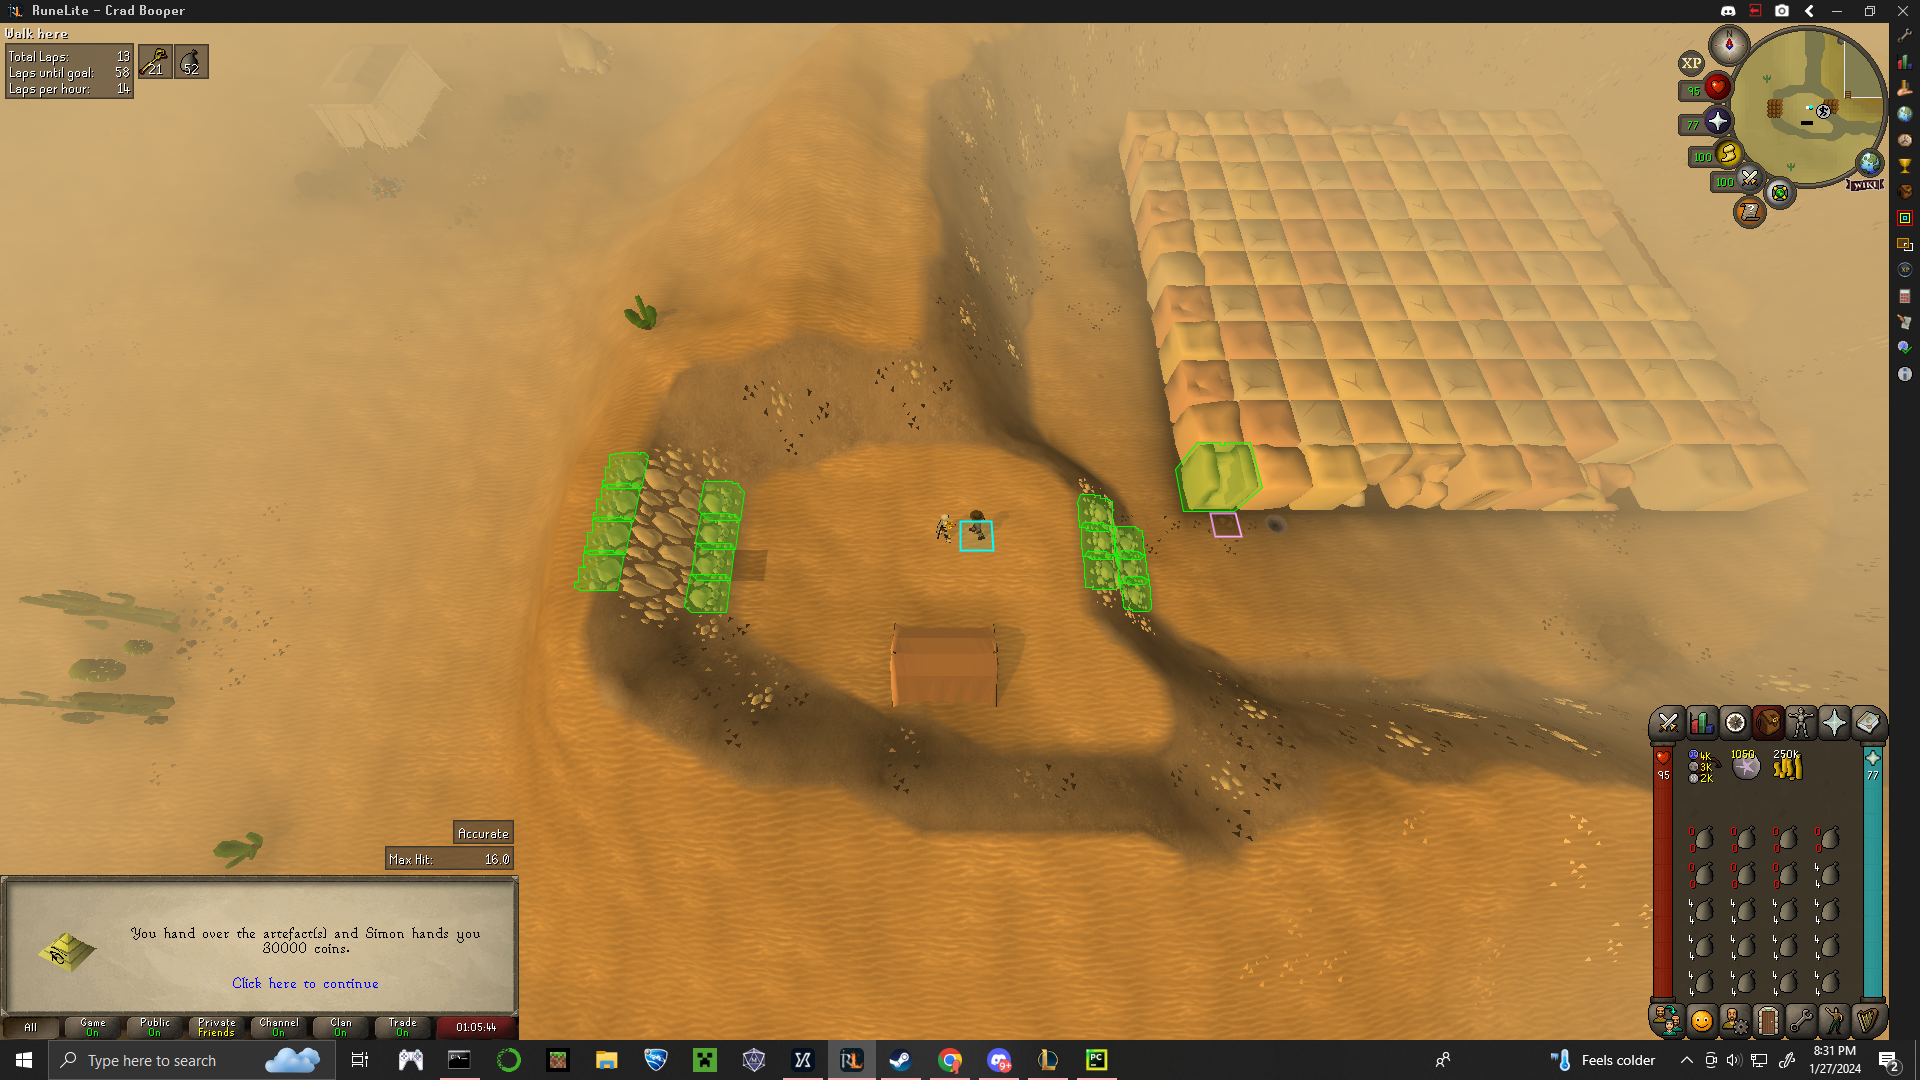
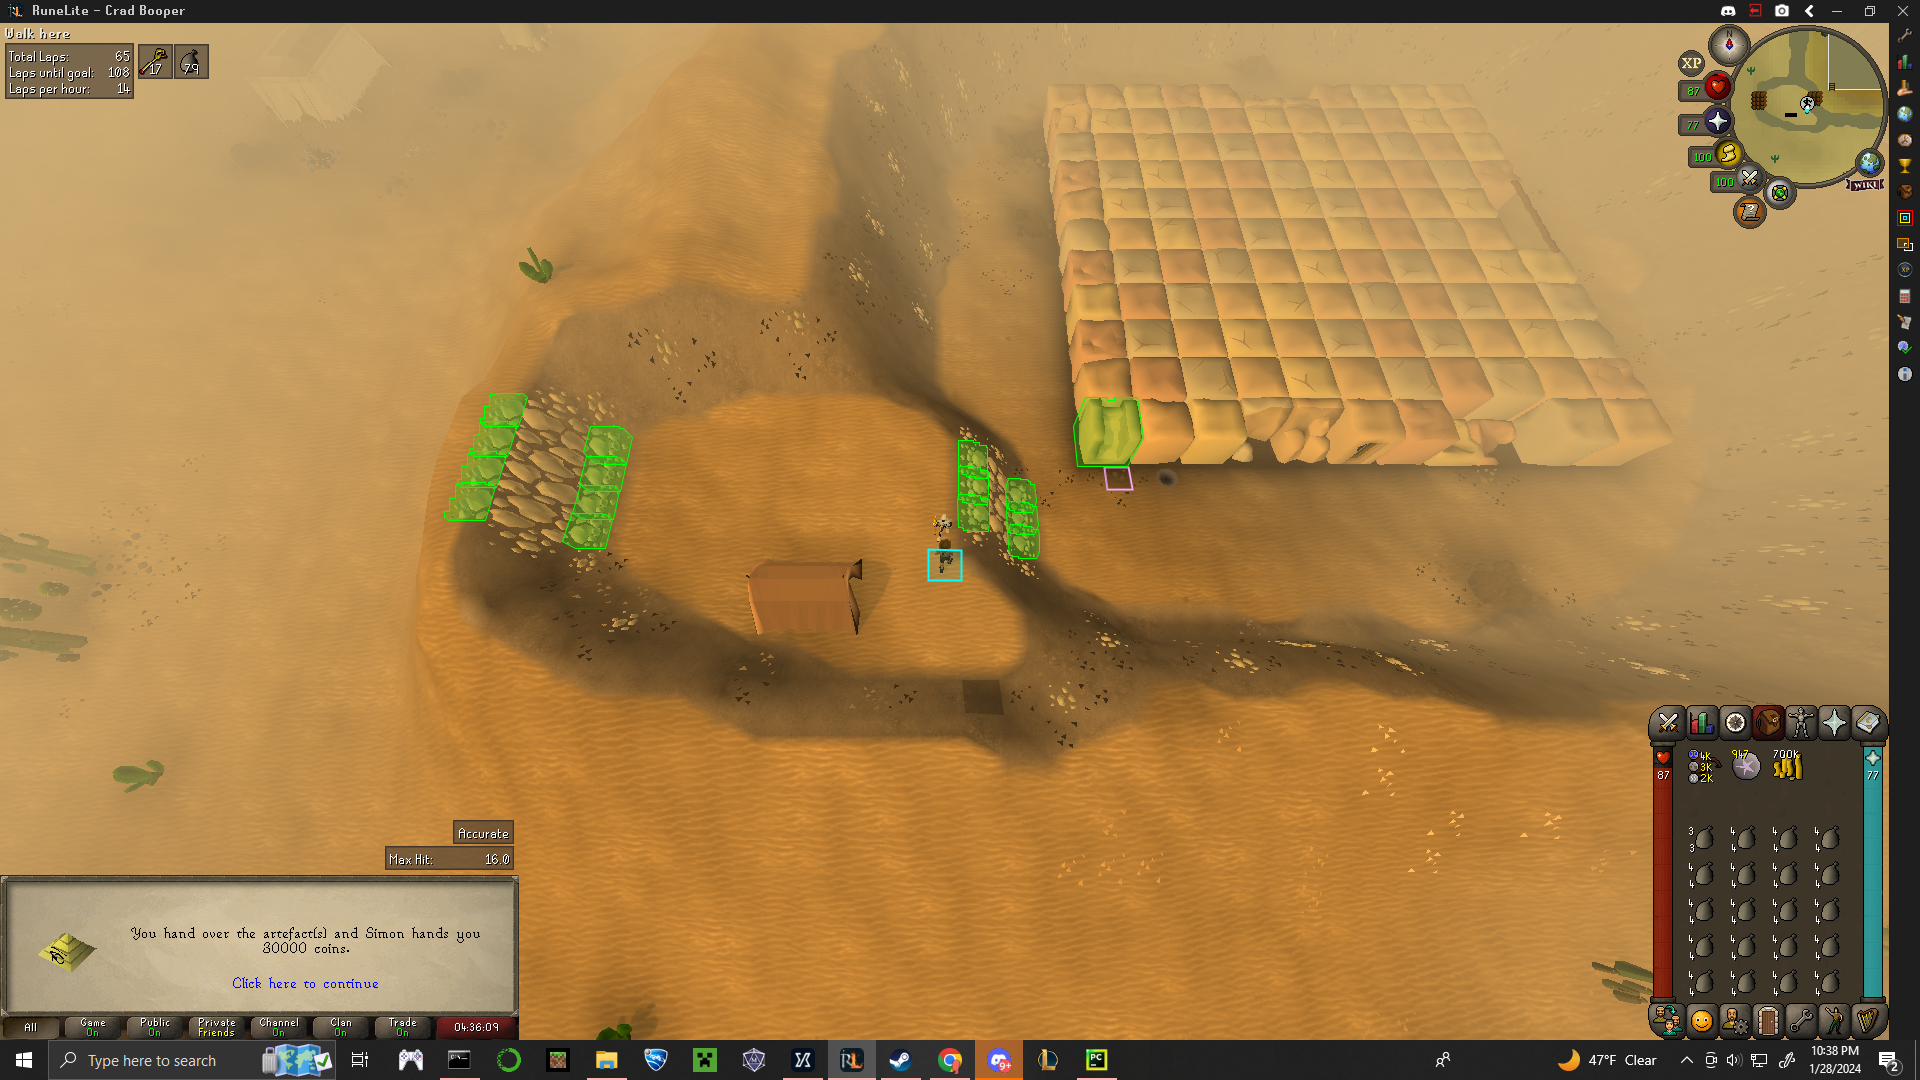
updated script to refill water, and loop is done

diff --git a/opencv/opencv_testing.py b/opencv/opencv_testing.py
@@ -11,6 +11,7 @@ from randomizers import p, r
 
 
 def locate_simon():
+    timer = time.time()
     pag.screenshot('s1.png', region=(550, 370, 500, 500))
     simon_area = cv.imread('s1.png', cv.IMREAD_UNCHANGED)
     simon = cv.imread('../agility_pyramid/simon_templeton.png', cv.IMREAD_UNCHANGED)
@@ -22,6 +23,7 @@ def locate_simon():
 
     simon_location = (max_loc[0] + 550 + simon_w, max_loc[1] + 370 + simon_h)
     # print(simon_location)
+    print(time.time() - timer)
     return simon_location
 
 
@@ -58,8 +60,8 @@ def trade_with_simon():
 
 def locate_start():
     pag.screenshot('s2.png', region=(0, 0, 1920, 1080))
-    start_area = cv.imread('../agility_pyramid/s2.png', cv.IMREAD_UNCHANGED)
-    start_tile = cv.imread('../agility_pyramid/start_tile.png', cv.IMREAD_UNCHANGED)
+    start_area = cv.imread('s2.png', cv.IMREAD_UNCHANGED)
+    start_tile = cv.imread('start_tile.png', cv.IMREAD_UNCHANGED)
     result = cv.matchTemplate(start_area, start_tile, cv.TM_CCOEFF_NORMED)
     min_val, max_val, min_loc, max_loc = cv.minMaxLoc(result)
     estimated_start_loc = (max_loc[0], max_loc[1] - 20)
@@ -68,6 +70,7 @@ def locate_start():
 
 def reset_position():
     pag.moveTo(locate_start())
+    time.sleep(0.25)
     pag.click()
     time.sleep(5)
     pag.moveTo(974 + p(-4, 4), 536 + p(-4, 4), r(0.25, 0.75))
@@ -77,5 +80,6 @@ def reset_position():
     pag.click()
 
 
-trade_with_simon()
-reset_position()
+# locate_simon()
+# trade_with_simon()
+# reset_position()

diff --git a/agility_pyramid/agility_pyramid.py b/agility_pyramid/agility_pyramid.py
@@ -118,7 +118,8 @@ def check_position(x, y, rgb, t=5):
 
 
 def locate_simon():
-    pag.screenshot('s1.png', region=(550, 370, 500, 500))
+    timer = time.time()
+    pag.screenshot('s1.png', region=(640, 470, 400, 330))
     simon_area = cv.imread('s1.png', cv.IMREAD_UNCHANGED)
     simon = cv.imread('simon_templeton.png', cv.IMREAD_UNCHANGED)
     result = cv.matchTemplate(simon_area, simon, cv.TM_CCOEFF_NORMED)
@@ -127,8 +128,9 @@ def locate_simon():
     simon_w = simon.shape[1] / 2
     simon_h = simon.shape[0] / 2
 
-    simon_location = (max_loc[0] + 550 + simon_w, max_loc[1] + 370 + simon_h)
+    simon_location = (max_loc[0] + 640 + simon_w, max_loc[1] + 470 + simon_h)
     # print(simon_location)
+    print(time.time() - timer)
     return simon_location
 
 
@@ -188,7 +190,7 @@ def reset_position():
 def main():
     countdown(3)
     initialize_pag()
-    for n in range(1, 13):
+    for n in range(1, 31):
         play_actions('agility_pyramid_pt1.json')
         time.sleep(4)
         wait_for('pyramid_block_1.png', c=0.98)
@@ -212,8 +214,15 @@ def main():
         if n % 3 == 0:
             trade_with_simon()
             reset_position()
+        if n % 25 == 0:
+            play_actions('fill_water.json')
+            time.sleep(5)
 
 
-main()
+# main()
+
 # trade_with_simon()
 # reset_position()
+
+play_actions('fill_water.json')
+time.sleep(5)

diff --git a/Recorder.py b/Recorder.py
@@ -4,7 +4,7 @@ from time import time
 import json
 
 
-OUTPUT_FILENAME = 'test'
+OUTPUT_FILENAME = 'fill_water'
 # Declare mouse_listener globally so that keyboard on release can stop it
 mouse_listener = None
 # Declare start_time globally so that the callback functions can reference it
